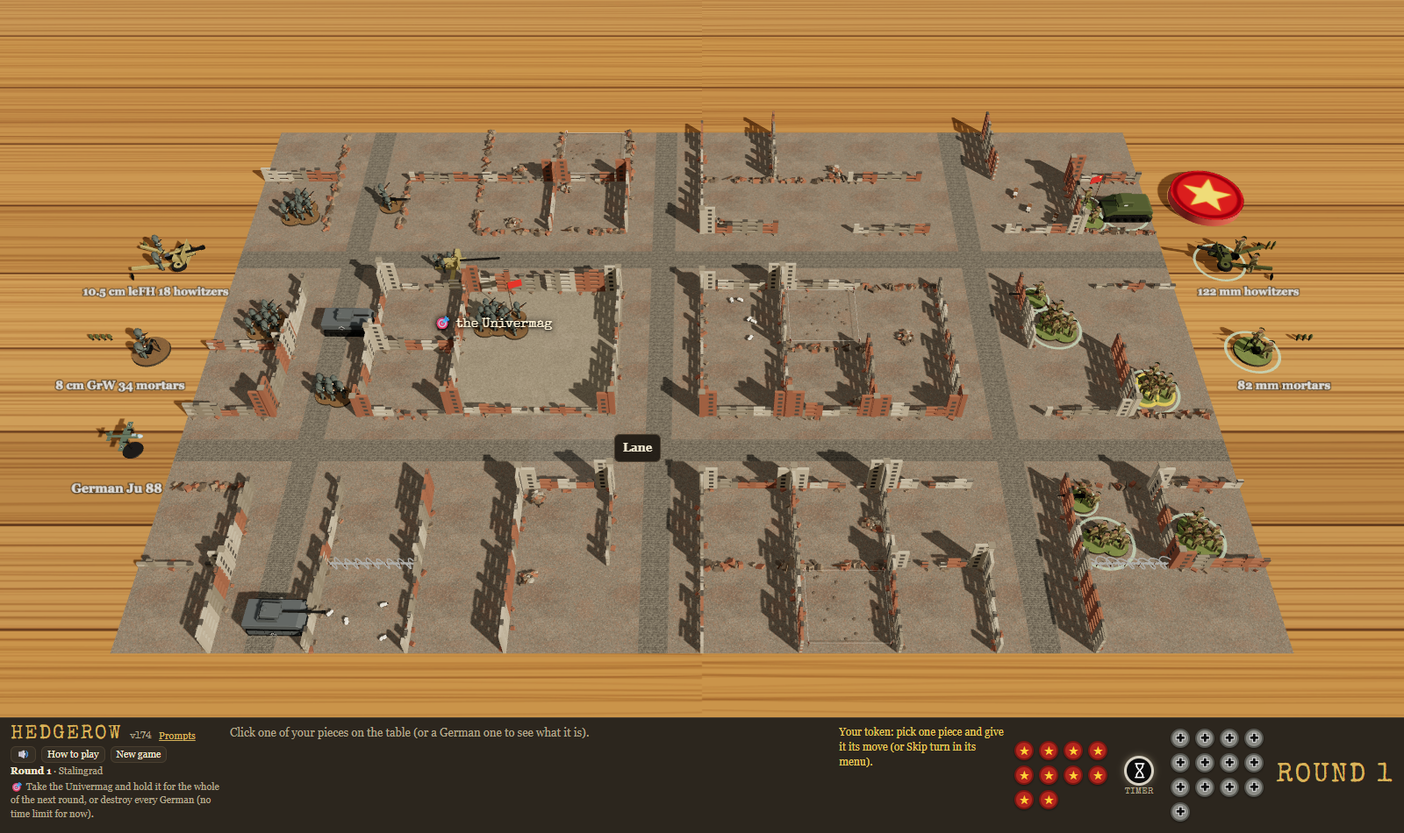
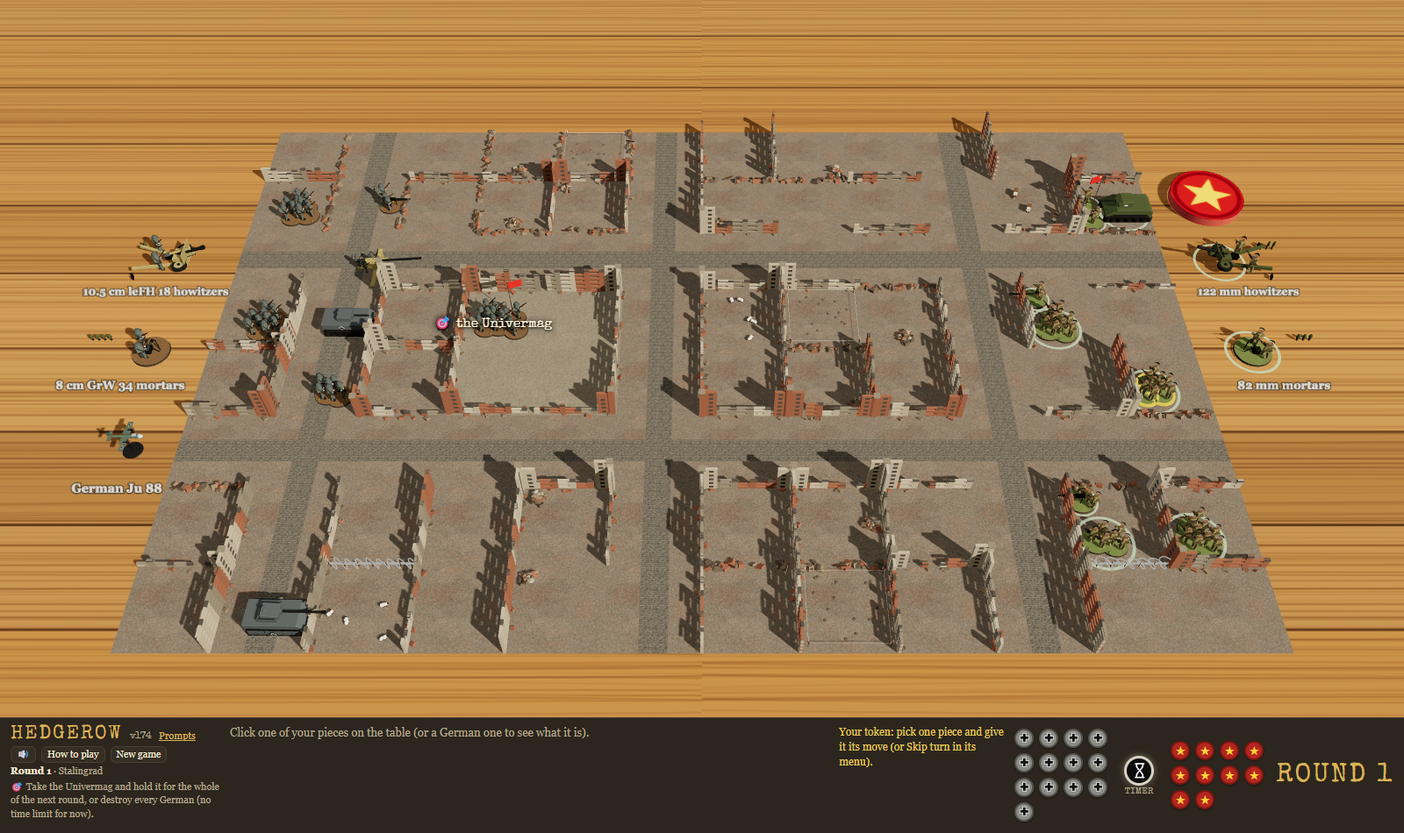
Hedgerow v175: Stalingrad tokens on their own sides, the Soviets by default, the 88 on a crossroads with no sandbags, "ruin" for "hedge"

Changed region(s): [[0.7188, 0.8547, 0.9062, 1.0], [0.25, 0.3053, 0.3438, 0.3358], [0.4375, 0.5189, 0.4688, 0.58]]

diff --git a/index.html b/index.html
@@ -32,6 +32,11 @@
   .bagside { display: grid; grid-template-columns: repeat(4, 24px); grid-auto-rows: 24px; gap: 4px; align-content: center; }
   #bag-us { justify-items: start; }
   #bag-de { justify-items: end; }
+  /* The table seen from the far side (Stalingrad, Steve): the Germans' tokens on the left, the other side's on the right */
+  #bagbox.flipped #bag-de { order: 1; justify-items: start; }
+  #bagbox.flipped #bag-timer { order: 2; }
+  #bagbox.flipped #bag-us { order: 3; justify-items: end; }
+  #bagbox.flipped #round { order: 4; }
   .tok { display: inline-flex; align-items: center; justify-content: center; width: 22px; height: 22px; border-radius: 50%; box-shadow: 0 1px 3px rgba(0,0,0,.6); }
   .tok.us { background: #3f8a36; border: 2px solid #2a5e24; color: #f2c94c; font-size: 14px; line-height: 1; }
   .tok.de { background: #8c8c86; border: 2px solid #55554f; }
@@ -147,7 +152,7 @@
 <aside id="panel">
   <div class="brand">
   <div class="top">
-    <h1>HEDGEROW <span id="ver" style="font-size:11px;color:var(--muted);letter-spacing:0">v174</span> <a id="prompts-link" href="prompts.html" target="_blank" rel="noopener" title="How the game was made, prompt by prompt">Prompts</a></h1>
+    <h1>HEDGEROW <span id="ver" style="font-size:11px;color:var(--muted);letter-spacing:0">v175</span> <a id="prompts-link" href="prompts.html" target="_blank" rel="noopener" title="How the game was made, prompt by prompt">Prompts</a></h1>
     <div class="links"><button id="sound-btn" title="Sound on or off">🔊</button><button id="help-btn">How to play</button><button id="new-btn">New game</button></div>
   </div>
   <div id="clock"></div>
@@ -195,7 +200,7 @@
     <p>Tuesday 11 July 1944, Normandy. Your American rifle company must fight through the bocage, field by field, and take a village three fields in from the German end of the board (Saint-Jean or La Haye: it changes each game), then hold it for the whole of the next round, or destroy every German on the field. Taken at the end of a round, it must stay held after every move of the next: a rifle platoon or the captain of yours in it and no Germans. Lose it at any moment and it must be taken and held all over again. The game is played in rounds; there is no limit for now. The moment one side has no pieces left, the game is over (the round isn't finished); if one mission or bomb takes the last of both sides, it is a draw. You lose at the end of a round if you have no rifle platoon and no captain left, and nothing left that can hurt the German tanks. A German garrison holds the village; more Germans march up from the east.</p>
     <ul>
       <li>🪖 <b>Pieces</b>: your company: three rifle platoons (three sections of three men each, moving together), the captain, machine-gun and bazooka teams, a sniper, and two tanks: a Sherman 75mm and a Sherman 76mm, with the longer gun, better against tanks. 1st Platoon is elite, and so is the Germans' 1. Fallschirmjäger-Zug: an elite piece has a gold band round the edge of each of its bases, its men look the part (and a ★ after its name): 1st Platoon are Rangers in brown, with the orange diamond on their helmets; the Fallschirmjäger wear the paratrooper's camouflage smock and black helmet. The other Germans are in field grey. Elite troops need one less to hit, in shooting and hand to hand. Your bases are green, the Germans' brown. The Germans: Fallschirmjäger platoons, MG 42 and Panzerschreck teams, a PaK 40 gun with its crew of three (it turns to face whatever it fires at), a Panzer IV and a Panther in panzer grey (the Panther's armour needs one more to hit, by shot or shell; every tank's armour shows in its panel and on the red label), and their captain with a red flag, who rallies their shaken pieces. Both captains can be shot and shelled like anyone else (a small target): one wound and he's gone.</li>
-      <li>🗺 <b>The campaign</b>: the same start also asks which battle. They run in order from the Normandy beaches through the bocage and the farms to Paris, each with its date; play any of them, in any order. When a battle ends and you have won it, <b>Next battle</b> starts the next one in the campaign with the same commanders on each side (after Paris, back to the beach); lost or drawn, <b>Try again</b> plays the same battle again. With two humans or two robots, it goes on when the Americans win. Take Paris and the city celebrates. Each has its own ground, and most change the pieces, the guns or where the sides start: River crossing (bridges the only way over), Crossroads town, Open farmland (few hedges, barns and a duck pond), Paris (a new maze of cobbled streets each game), Train station (tracks everywhere, with engines, carriages, goods wagons, signal boxes, signals, water towers and coal heaps in new places each game; the tracks themselves have no effect) and Deep bocage (hedges nearly everywhere). A café, a barn, or anything on the rails takes two or three areas, along one side of its field or in the middle, and blocks the view as a tank does; so do the station's signal boxes, water towers and coal heaps, one area each; a signal takes an area too, but can be seen past (with one in the middle only smaller pieces can stop there; platoons and tanks go past); a fountain or a pond can't be stood on, but can be seen over. Bombers differ too: on some maps only one side has one, on one map neither. The choice says what each one changes. Two <b>bonus battles</b> sit at the top right of the choice, outside the campaign. <b>Dunkirk</b>, 31 May 1940: you are the British (or the Germans against them). Your men don't go to the boats: they hold the sandbagged strongpoints along the front (two more to hit the men in one, one more against shells). From round 2 a lorry a round comes down the coast road from the top, with 1 or 2 sections of men, and drives itself (up to 4 fields a round, no orders or token) to a little ship lying off the beach; the men run out of the back into the boat, and the boats sail at the end of the round. Two or three boats (tugs and cabin cruisers) come in each round, off the top four fields of the beach; the destroyer lies at the bottom with the RAF's bomber above it. 12 sections away within 12 rounds wins (a lorry shot up on the way brings fewer); a German on the coast road or the beach at the end of a round loses, and so does running out of lorries or rounds. The Germans can shoot the lorries: each hit loses a section. The Royal Navy's destroyer fires for the British in place of artillery, with 4 rounds; the British have no mortars, and one run of an RAF Blenheim. The boats come in bow first, pull up alongside the beach, and leave bow first. The count of sections away is written large on the beach above the board. On the Normandy beach the American guns are the battleship USS Texas, out at sea, with 3 rounds, and no mortars. On both, the beach runs on past the top and bottom of the board. <b>Stalingrad</b>, November 1942: you are the Soviets (or the Germans against them), coming in from the right through a bombed-out city to take the ruins of the Univermag store from the Germans on the left. The walls of ruined buildings stand on the edges between fields and work as hedges do: you see over one only from right beside it, men climb through its windows, lining one is cover, and a tank drives through it, leaving rubble. Lines of rubble do the same. A pile of rubble takes one area, and men in its field have one more to hit; a minefield (boards on stakes round it) rolls a die for every piece that goes in: 5 or 6 sets off a mine, a hit on it. Each side has a section of submachine gunners (PPSh or MP 40): two bases of three men, 3 dice a base, at close range only. The Germans have an 8.8 cm Flak 36 in a fixed position in the street beside the store, looking down it, that never moves; the Soviets a T-34, a Maxim, a PTRD anti-tank rifle and a sniper. Their token is red with a yellow star.</li>
+      <li>🗺 <b>The campaign</b>: the same start also asks which battle. They run in order from the Normandy beaches through the bocage and the farms to Paris, each with its date; play any of them, in any order. When a battle ends and you have won it, <b>Next battle</b> starts the next one in the campaign with the same commanders on each side (after Paris, back to the beach); lost or drawn, <b>Try again</b> plays the same battle again. With two humans or two robots, it goes on when the Americans win. Take Paris and the city celebrates. Each has its own ground, and most change the pieces, the guns or where the sides start: River crossing (bridges the only way over), Crossroads town, Open farmland (few hedges, barns and a duck pond), Paris (a new maze of cobbled streets each game), Train station (tracks everywhere, with engines, carriages, goods wagons, signal boxes, signals, water towers and coal heaps in new places each game; the tracks themselves have no effect) and Deep bocage (hedges nearly everywhere). A café, a barn, or anything on the rails takes two or three areas, along one side of its field or in the middle, and blocks the view as a tank does; so do the station's signal boxes, water towers and coal heaps, one area each; a signal takes an area too, but can be seen past (with one in the middle only smaller pieces can stop there; platoons and tanks go past); a fountain or a pond can't be stood on, but can be seen over. Bombers differ too: on some maps only one side has one, on one map neither. The choice says what each one changes. Two <b>bonus battles</b> sit at the top right of the choice, outside the campaign. <b>Dunkirk</b>, 31 May 1940: you are the British (or the Germans against them). Your men don't go to the boats: they hold the sandbagged strongpoints along the front (two more to hit the men in one, one more against shells). From round 2 a lorry a round comes down the coast road from the top, with 1 or 2 sections of men, and drives itself (up to 4 fields a round, no orders or token) to a little ship lying off the beach; the men run out of the back into the boat, and the boats sail at the end of the round. Two or three boats (tugs and cabin cruisers) come in each round, off the top four fields of the beach; the destroyer lies at the bottom with the RAF's bomber above it. 12 sections away within 12 rounds wins (a lorry shot up on the way brings fewer); a German on the coast road or the beach at the end of a round loses, and so does running out of lorries or rounds. The Germans can shoot the lorries: each hit loses a section. The Royal Navy's destroyer fires for the British in place of artillery, with 4 rounds; the British have no mortars, and one run of an RAF Blenheim. The boats come in bow first, pull up alongside the beach, and leave bow first. The count of sections away is written large on the beach above the board. On the Normandy beach the American guns are the battleship USS Texas, out at sea, with 3 rounds, and no mortars. On both, the beach runs on past the top and bottom of the board. <b>Stalingrad</b>, November 1942: you are the Soviets (or the Germans against them), coming in from the right through a bombed-out city to take the ruins of the Univermag store from the Germans on the left. The walls of ruined buildings stand on the edges between fields and work as hedges do: you see over one only from right beside it, men climb through its windows, lining one is cover, and a tank drives through it, leaving rubble. Lines of rubble do the same. A pile of rubble takes one area, and men in its field have one more to hit; a minefield (boards on stakes round it) rolls a die for every piece that goes in: 5 or 6 sets off a mine, a hit on it. Each side has a section of submachine gunners (PPSh or MP 40): two bases of three men, 3 dice a base, at close range only. The Germans have an 8.8 cm Flak 36 in a fixed position on the crossroads behind the store, looking down the street, that never moves; the Soviets a T-34, a Maxim, a PTRD anti-tank rifle and a sniper. Their token is red with a yellow star.</li>
       <li>🏖 <b>Beach landing</b>: the Americans start in landing craft in the sea and can only go forward. There is no goal to take: they win only by destroying every German, bunkers and all. <b>Bunkers</b> are a U of concrete with an MG team or a PaK 40 inside. They never move and fire only out of the slit in their thick front, to the west, across a 90° arc: 45° either side of straight ahead, measured from where the bunker stands to where the target stands in its field. <b>From in front they need 3 more to hit</b>, and shells and bombs too; <b>from either thin side, 1 more</b>; <b>from the open back (the 90° straight behind it), nothing extra</b>. A bunker never has cover from the sea wall, hedges, houses or trees, and the label on a shot at one says which face. Rifles, machine guns and mortars only shake a bunker; anti-tank weapons, artillery and bombs can knock it out, and a rifle platoon can storm it hand to hand from the side or back, never from the front. A dead bunker stays as a burnt-out shell, blocking the view. <b>Tank traps</b> stop tanks and give no cover. <b>Burnt-out landing craft</b> on the sand block the view; a piece right beside one (in the next area, in its field or the next) has +1 cover, as by a hedge, shown by a green bar along the wreck when you move there (not against shells or bombs). The sea wall is climbed like a hedge bank, or driven through.</li>
       <li>🔄 <b>Human or robot</b>: the game starts by asking who commands each side, and <b>New game</b> asks again. Two humans share the screen and take turns token by token: a piece under fire is asked Stand fast or Take cover by the other player. Two robots play it out while you watch, a draw after 30 rounds. <b>Playing the Germans</b>: As the Germans you win only by destroying every American piece on the table; their mortars, artillery and bomber off the table don't count. You lose if a rifle platoon or the captain of theirs takes the village and holds it for the whole of the next round, with no Germans left in it, or if every German is destroyed. The computer plays the Americans and attacks. Everything else in these rules works the same, the other way round: your pieces fight with German weapons and your mortars drop on one piece, not a whole field.</li>
       <li>📋 <b>The bag</b>: each round a token goes in a blind bag for every piece on the table: green with a gold star for yours, grey with a black cross for the Germans', and one black timer token (a white sand-glass): when the timer is drawn the round ends there and then, whoever has still to move (it is never the first token out). Tokens are drawn one at a time; on yours, pick one piece and give it its move (or Skip turn in its menu); on theirs, a German piece moves. A piece destroyed, or one that loses its move, takes a token out. When the bag is empty the next round starts. The tokens left are shown in the bar at the bottom (the timer between the two sides'); the one drawn flies onto the table above that side's artillery and stays there until its move is over. Your mortars, artillery and bomber each have a token too, while they have rounds or a run left (with none left, they come out of the bag): on one of your tokens, firing them or flying the bomber uses it. Any piece or gun can <b>Skip turn</b> (in its menu): it gives up its move this round and the token is used.</li>
@@ -231,16 +236,16 @@
 </div>
 
 <script src="https://cdnjs.cloudflare.com/ajax/libs/three.js/r128/three.min.js"></script>
-<script src="js/data.js?v=174"></script>
-<script src="js/sim.js?v=174"></script>
-<script src="js/sound.js?v=174"></script>
-<script src="js/models.js?v=174"></script>
-<script src="js/fire.js?v=174"></script>
-<script src="js/chute.js?v=174"></script>
-<script src="js/labels.js?v=174"></script>
-<script src="js/scenery.js?v=174"></script>
-<script src="js/board3d.js?v=174"></script>
-<script src="js/ui.js?v=174"></script>
-<script src="js/main.js?v=174"></script>
+<script src="js/data.js?v=175"></script>
+<script src="js/sim.js?v=175"></script>
+<script src="js/sound.js?v=175"></script>
+<script src="js/models.js?v=175"></script>
+<script src="js/fire.js?v=175"></script>
+<script src="js/chute.js?v=175"></script>
+<script src="js/labels.js?v=175"></script>
+<script src="js/scenery.js?v=175"></script>
+<script src="js/board3d.js?v=175"></script>
+<script src="js/ui.js?v=175"></script>
+<script src="js/main.js?v=175"></script>
 </body>
 </html>

diff --git a/js/ui.js b/js/ui.js
@@ -489,12 +489,12 @@ const UI = (() => {
     }
     if (u.kind === 'company' || Sim.isTank(u)) {
       const fight = Sim.chargeSpots(st, u).some(p => Sim.at(st, p.x, p.y, enemy()).length);
-      add('charge', fight ? '⚔ Charge (hand to hand)' : '⚔ Charge', Sim.chargeSpots(st, u).length > 0, 'Up to three fields without shooting (men climbing a hedge or cutting wire use one more); hand to hand if the enemy holds the field it ends in');
+      add('charge', fight ? '⚔ Charge (hand to hand)' : '⚔ Charge', Sim.chargeSpots(st, u).length > 0, `Up to three fields without shooting (men climbing a ${Sim.hedgeWord()} or cutting wire use one more); hand to hand if the enemy holds the field it ends in`);
       add('moveShoot', '➡ Move & shoot', Sim.moveShootSpots(st, u).length > 0, 'Up to two fields to where it can fire (the red-hatched fields), then fire needing one more on the dice');
       add('shoot', '🎯 Shoot', Sim.targets(st, u).length > 0, 'Fire with every die');
     } else if (u.kind === 'captain') {
       // The four actions (Steve): Charge, Move & shoot, Shoot, Rally. The captain does all four
-      add('charge', '⚔ Charge', Sim.chargeSpots(st, u).length > 0, 'Up to three fields, no shooting (climbing a hedge uses one more)');
+      add('charge', '⚔ Charge', Sim.chargeSpots(st, u).length > 0, `Up to three fields, no shooting (climbing a ${Sim.hedgeWord()} uses one more)`);
       // (after two rallies only a charge is left, Steve)
       add('moveShoot', '➡ Move & shoot', Sim.mayFire(u) && Sim.moveShootSpots(st, u).length > 0, 'Up to two fields to where he can fire (the red-hatched fields), then fire needing one more on the dice');
       add('shoot', '🎯 Shoot', Sim.mayFire(u) && Sim.targets(st, u).length > 0, `His submachine gun: ${PIECES[u.kind].soft} dice, at close range only`);
@@ -506,7 +506,7 @@ const UI = (() => {
       const further = PIECES[u.kind].extraMove > 0;
       const chargeFields = further ? 'four' : 'three';
       const moveFields = further ? 'three' : 'two';
-      add('charge', '⚔ Charge', Sim.chargeSpots(st, u).length > 0, `Up to ${chargeFields} fields, no shooting (climbing a hedge uses one more)`);
+      add('charge', '⚔ Charge', Sim.chargeSpots(st, u).length > 0, `Up to ${chargeFields} fields, no shooting (climbing a ${Sim.hedgeWord()} uses one more)`);
       // Machine guns can't move and fire: they Charge to a new spot, then Shoot next round
       if (u.kind !== 'mg' && u.kind !== 'mg42') add('moveShoot', '➡ Move & shoot', Sim.moveShootSpots(st, u).length > 0, `Up to ${moveFields} fields to where it can fire (the red-hatched fields), then fire needing one more on the dice`);
       add('shoot', '🎯 Shoot', Sim.targets(st, u).length > 0, 'Fire with every die');
@@ -607,7 +607,7 @@ const UI = (() => {
     const eliteName = u.side === 'de' ? 'Fallschirmjäger' : Sim.armyOf(st) === 'us' ? 'Rangers' : 'Guards';
     const elite = u.quality === 'elite' ? ` · <b class="elite">Elite</b> (${eliteName}: −1 to hit)` : '';
     const nation = u.side === st.human && st.mode !== 'none' ? '' : `${adjective(u.side)} · `;
-    box.append(el('div', 'sub', `${nation}${kindName(u)}${elite}${Sim.hasCutters(u) ? ' · hedge cutters' : ''}`));
+    box.append(el('div', 'sub', `${nation}${kindName(u)}${elite}${Sim.hasCutters(u) && Sim.hedgeWord() === 'hedge' ? ' · hedge cutters' : ''}`));
     const where = `📍 At ${Sim.placeName(u.at)}`;
     box.append(el('div', 'stats', [strength, dice, armour, where, status].filter(Boolean).map(s => `<span>${s}</span>`).join('')));
     // Aboard a boat, or a lorry driving itself: no orders to give
@@ -640,9 +640,9 @@ const UI = (() => {
       : view.mode === 'halfShot' ? `Moved. Click a red target to fire on it (${selected() && !Sim.shotOnTheMove(selected()) ? 'moved within its field: nothing more needed' : 'one more needed on the move'}), or Esc to hold fire.`
       : view.mode === 'shoot' ? 'Click a red target to fire on it. Esc cancels.'
       : view.mode === 'rally' ? `Bright green: pieces he can rally; click one. Pale green: how far he reaches (${RALLY_RANGE} fields). Esc cancels.`
-      : view.mode === 'go' ? `${targets().length ? 'Red targets: shoot from here. ' : ''}Red hatching: Move & shoot (crossed: close range; pale: only a Hail Mary from there). Other marked fields: Charge. ${st.human === 'us' ? 'Blue: the village. ' : ''}Click where in the field to stand: a corner, an edge (lining its hedge) or the middle. Or use the menu.`
-      : view.mode === 'charge' ? `${st.human === 'us' ? 'Blue hatching: the village to take. ' : ''}Click where in a field to go: by a hedge to line it (green: cover), or the middle for the open. Bright red fields are held by the ${foes()}: a hand-to-hand fight. Its own field (green): line another hedge. Esc cancels.`
-      : view.mode === 'moveShoot' ? `Click where in a red-hatched field to go (by a hedge to line it, green: cover; crossed red: close range): ${u ? u.name : 'the piece'} moves there and can fire. Esc cancels.`
+      : view.mode === 'go' ? `${targets().length ? 'Red targets: shoot from here. ' : ''}Red hatching: Move & shoot (crossed: close range; pale: only a Hail Mary from there). Other marked fields: Charge. ${st.human === 'us' ? 'Blue: the village. ' : ''}Click where in the field to stand: a corner, an edge (lining its ${Sim.hedgeWord()}) or the middle. Or use the menu.`
+      : view.mode === 'charge' ? `${st.human === 'us' ? 'Blue hatching: the village to take. ' : ''}Click where in a field to go: by a ${Sim.hedgeWord()} to line it (green: cover), or the middle for the open. Bright red fields are held by the ${foes()}: a hand-to-hand fight. Its own field (green): line another ${Sim.hedgeWord()}. Esc cancels.`
+      : view.mode === 'moveShoot' ? `Click where in a red-hatched field to go (by a ${Sim.hedgeWord()} to line it, green: cover; crossed red: close range): ${u ? u.name : 'the piece'} moves there and can fire. Esc cancels.`
       : `Click a highlighted field for ${u ? u.name : 'the piece'}. Esc cancels.`;
     $('#hint').textContent = text;
   }
@@ -696,6 +696,8 @@ const UI = (() => {
     const left = st.leftInBag ? Object.assign({ timer: 0 }, st.leftInBag) : null;
     const b = view.bagShown || left || st.bag || { us: 0, de: 0 };
     $('#bag-us').innerHTML = TOKEN[Sim.armyOf(st)].repeat(b.us);
+    // (each side's tokens on its own side of the screen, Steve: the Germans on the left at Stalingrad)
+    $('#bagbox').classList.toggle('flipped', !!st.map.flip);
     $('#bag-de').innerHTML = TOKEN.de.repeat(b.de);
     // The timer token, between the two sides' tokens (Steve)
     $('#bag-timer').innerHTML = b.timer ? TOKEN.timer + '<span class="timer-label">TIMER</span>' : '';

diff --git a/js/sim.js b/js/sim.js
@@ -162,6 +162,9 @@ const Sim = (() => {
     return true;
   }
 
+  // What a hedge is called on this map (Steve: at Stalingrad the hedges are ruins)
+  function hedgeWord() { return currentMap.ruins ? 'ruin' : 'hedge'; }
+
   function hedge(st, ax, ay, bx, by) { return !!st.hedges[edgeKey(ax, ay, bx, by)]; }
   function wire(st, ax, ay, bx, by) { return !!st.wire[edgeKey(ax, ay, bx, by)]; }
 
@@ -1384,7 +1387,7 @@ const Sim = (() => {
     // The covers one by one: the hedge it lines, a tank in a field in between, the field it stands in, its own tank beside it
     // (none for a bunker, Steve: see cover)
     const covered = !isBunker(target);
-    if (covered && s && s.hedge) why.push(`+${COVER.hedge} hedge`);
+    if (covered && s && s.hedge) why.push(`+${COVER.hedge} ${hedgeWord()}`);
     if (covered && s && s.tankCorner) why.push(`+${COVER.tankCorner} tank's corner`);
     if (covered && s && s.placeCorner) why.push(`+${COVER.placeCorner} cover`);
     if (covered) why.push(...placeWhy(st, target, shooter));
@@ -1736,8 +1739,8 @@ const Sim = (() => {
     if (!defenders.length) {
       const how = step(st, u, x, y, true);
       const mined = takeMineLines(st);
-      if (mined.length) return [how === 'cut' ? `${u.name} charges through the hedge, leaving a gap` : `${u.name} charges forward`, ...mined.map(l => l.replace(/\.$/, ''))];
-      return [how === 'cut' ? `${u.name} charges through the hedge, leaving a gap` : how === 'flattened' ? `${u.name} charges over the wire, flattening it` : `${u.name} charges forward`];
+      if (mined.length) return [how === 'cut' ? `${u.name} charges through the ${hedgeWord()}, leaving a gap` : `${u.name} charges forward`, ...mined.map(l => l.replace(/\.$/, ''))];
+      return [how === 'cut' ? `${u.name} charges through the ${hedgeWord()}, leaving a gap` : how === 'flattened' ? `${u.name} charges over the wire, flattening it` : `${u.name} charges forward`];
     }
     st.fx.push({ x, y, kind: 'assault' });
     // A tank can't fight hand to hand (Steve): it drives in and the men there fall back
@@ -2021,8 +2024,8 @@ const Sim = (() => {
   }
 
   function moveLine(u, how) {
-    if (how === 'cut') return `🚜 ${u.name} smashes through the hedge, leaving a gap.`;
-    if (how === 'climbed') return `🧗 ${u.name} struggles over the hedge bank.`;
+    if (how === 'cut') return `🚜 ${u.name} smashes through the ${hedgeWord()}, leaving a gap.`;
+    if (how === 'climbed') return currentMap.ruins ? `🧗 ${u.name} climbs through the ruin.` : `🧗 ${u.name} struggles over the hedge bank.`;
     if (how === 'flattened') return `🚜 ${u.name} flattens the barbed wire.`;
     if (how === 'snagged') return `🚜 ${u.name} flattens the barbed wire but gets snagged in it and stops.`;
     if (how === 'wirecut') return `✂ ${u.name} cuts through the wire.`;
@@ -2895,10 +2898,10 @@ const Sim = (() => {
   function computerMovesToFire(st, u) {
     const across = st.units.find(o => o.side !== u.side && o.x !== null && acrossHedge(st, u, o) && !atHedge(u, o));
     if (across && !PIECES[u.kind].fixed) {
-      computerSays(st, `Lines the hedge facing ${across.name}`);
+      computerSays(st, `Lines the ${hedgeWord()} facing ${across.name}`);
       u.at = freePlace(st, u, u.x, u.y, dirTo(u, across));
       springAmbushes(st, u, []);
-      return { shot: shotAfterMove(st, u, `Lines the hedge facing ${across.name}`) };
+      return { shot: shotAfterMove(st, u, `Lines the ${hedgeWord()} facing ${across.name}`) };
     }
     const plan = bestMoveShoot(st, u);
     if (!plan) return null;
@@ -3486,7 +3489,7 @@ const Sim = (() => {
 
   return {
     firesOnTheMove, canAmbush, actAmbush, bestMoveShoot, bomberHeading, bomberAims, bomberLine, bombNeed, bombWhy, bestBomberRun,
-    isBunker, isCar, hurtsCars, trainCars, lineSideOf, moveTrains, inFrontOf, bunkerFace, shotOnTheMove, wrecksBeside, isRoad, featuresAt, walkDistance, fireSound, wreckAt, remove, computerSide, isRobot, piecesToAsk, takeCover, enemyOf, gunStats, bomberName, boatKind, armyOf, closeRangeOnly, isAtGun, isEmplaced, edgeKey, atCloseRange, closeCells, hailMaryCells,
+    isBunker, isCar, hurtsCars, trainCars, lineSideOf, moveTrains, inFrontOf, bunkerFace, shotOnTheMove, wrecksBeside, isRoad, featuresAt, walkDistance, fireSound, wreckAt, remove, computerSide, isRobot, piecesToAsk, takeCover, enemyOf, gunStats, bomberName, boatKind, armyOf, hedgeWord, closeRangeOnly, isAtGun, isEmplaced, edgeKey, atCloseRange, closeCells, hailMaryCells,
     newGame, roll, inside, tileType, hedge, at, unitById, isTank, isTeam, adjacent, sees, targets, chargeSpots,
     rallyTargets, canAct, canReact, firepower, canCallFire, takesGoal, cannotWin, artilleryTarget, mortarTarget, holdsObjective, roundText, roomFor,
     computerStep, answer, finishRound, startRound, drawToken, endComputerToken, activationOver, passToken, humanCanMove, endRound, canFire, actSkip, actSkipShot, skipSupport,

diff --git a/js/data.js b/js/data.js
@@ -307,11 +307,13 @@ const MAPS = [
     // Piles of rubble and minefields made new each game (generated: 'ruins'). The 'us' side is the Soviets (army 'su');
     // the table is seen from the other side (flip), so they come in from the right and the Germans hold the left (Steve)
     id: 'stalingrad', bonus: true, date: 'November 1942', name: 'Stalingrad',
-    note: 'A bombed-out city. The Soviets attack the Germans holding the ruins of the Univermag store. The walls of ruined buildings stand between the fields and work as hedges do: you see over one only from right beside it, men climb through the windows, and lining one is cover. Lines of rubble do the same; piles of rubble give cover, and minefields may blow up whoever goes in. Each side has a section of submachine gunners: two bases of three men, 3 dice a base (6 in all), at close range only. The Germans have an 8.8 cm Flak in a fixed position, looking down an open street; the Soviets a T-34.',
+    note: 'A bombed-out city. The Soviets attack the Germans holding the ruins of the Univermag store. The walls of ruined buildings stand between the fields and work as hedges do: you see over one only from right beside it, men climb through the windows, and lining one is cover. Lines of rubble do the same; piles of rubble give cover, and minefields may blow up whoever goes in. Each side has a section of submachine gunners: two bases of three men, 3 dice a base (6 in all), at close range only. The Germans have an 8.8 cm Flak in a fixed position on a crossroads, looking down an open street; the Soviets a T-34.',
     generated: 'ruins',
     ruins: true,
     army: 'su',
     flip: true,
+    // (Steve: the player is the Soviets when this battle is picked)
+    player: 'us',
     names: { us: 'Soviets', de: 'Germans' },
     rows: [
       '..|...|...|.',
@@ -348,9 +350,9 @@ const MAPS = [
         { id: 'd1', kind: 'company', name: '1. Zug', quality: 'standard', post: [0, 0], garrison: true },
         { id: 'dmg1', kind: 'mg42', name: 'MG 34 Team', post: [0, 0], garrison: true },
         { id: 'dcap', kind: 'captain', name: 'Hauptmann (company HQ)', post: [0, 0], garrison: true },
-        // The 88 (Steve: a fixed position, pointing down an open street): in the street beside the store, looking west
-        // along it, where no wall stands in the way; it never moves
-        { id: 'd88', kind: 'flak88', name: '8.8 cm Flak 36', post: [1, 1], garrison: true, aim: Math.PI },
+        // The 88 (Steve: a fixed position, pointing down an open street, on a crossroads): on the crossroads behind the
+        // store, looking west down the street, where no wall stands in the way; it never moves
+        { id: 'd88', kind: 'flak88', name: '8.8 cm Flak 36', post: [2, 1], garrison: true, aim: Math.PI },
         { id: 'd2', kind: 'company', name: '2. Zug', quality: 'standard', post: [0, 1] },
         { id: 'dsmg', kind: 'company', arms: 'smg', name: 'MP 40 Section', quality: 'standard', post: [0, -1] },
         { id: 'dmg2', kind: 'mg42', name: 'MG 34 Team', post: [-1, -1] },

diff --git a/tools/test.js b/tools/test.js
@@ -4372,6 +4372,10 @@ check('Dunkirk boats are named by their type, a tug or a cabin cruiser, as the t
 check('Stalingrad: the Soviets against the Germans, the table seen from the far side, walls between the fields, rubble and minefields', () => {
   const st = Sim.newGame(3, 'us', 'stalingrad');
   assert(Sim.armyOf(st) === 'su' && Sim.sideName(st, 'us') === 'Soviets' && st.map.flip, 'not the Soviets, or not flipped');
+  // (Steve: the cover is a ruin there, not a hedge)
+  assert(Sim.hedgeWord() === 'ruin', `the walls are called ${Sim.hedgeWord()}`);
+  // (Steve: the player is the Soviets when it is picked)
+  assert(st.map.player === 'us', 'the player is not the Soviets');
   // The walls stand on the edges as hedges do
   assert(Object.keys(st.hedges).length > 40, `only ${Object.keys(st.hedges).length} walls`);
   // Rubble and minefields, never in the store or on a street, nor where the sides start
@@ -4389,6 +4393,7 @@ check('Stalingrad: the Soviets against the Germans, the table seen from the far 
   assert(kinds('us').includes('t34') && kinds('us').includes('company:smg'), kinds('us').join());
   assert(kinds('de').includes('flak88') && kinds('de').includes('company:smg'), kinds('de').join());
   Sim.newGame(1);
+  assert(Sim.hedgeWord() === 'hedge', 'hedges are still called ruins elsewhere');
 });
 
 check('Stalingrad: a section of submachine gunners is two bases of three men, 3 dice a base, at close range only (Steve)', () => {
@@ -4414,8 +4419,8 @@ check('Stalingrad: the 88 is dug in for good: it never moves, not even within it
   assert(gun.x !== null && Sim.isEmplaced(gun) && Sim.isAtGun(gun), 'no 88 dug in');
   assert(!Sim.chargeSpots(st, gun).length && !Sim.moveShootSpots(st, gun).length, 'the 88 could move');
   assert(PIECES.flak88.hard > PIECES.pak.hard, 'the 88 is no stronger than the PaK');
-  // (Steve: pointing down an open street) In an east-west street, facing west along it towards the Soviets
-  assert(Sim.tileType(gun.x, gun.y) === 'laneEW' && Math.abs(gun.aim - Math.PI) < 1e-6, `the 88 in ${Sim.tileType(gun.x, gun.y)}, facing ${gun.aim}`);
+  // (Steve: pointing down an open street, on a crossroads) On a crossroads, facing west along the street to the Soviets
+  assert(Sim.tileType(gun.x, gun.y) === 'crossroads' && Math.abs(gun.aim - Math.PI) < 1e-6, `the 88 in ${Sim.tileType(gun.x, gun.y)}, facing ${gun.aim}`);
   // Nothing in the way along the street: no wall between it and the far end of the board
   for (let x = gun.x; x > 0; x--) assert(!Sim.hedge(st, x, gun.y, x - 1, gun.y), `a wall across the street at ${x}`);
   Sim.newGame(1);

diff --git a/js/main.js b/js/main.js
@@ -629,6 +629,15 @@ window.Game = (() => {
     // Who the 'us' side is in this battle (Steve: the British at Dunkirk)
     $('#us-side-name').textContent = (map.names && map.names.us) || 'Americans';
   }
+  // A battle that says which side the player is (Steve: the Soviets at Stalingrad): picked, the sides are set to that
+  // (one human, the other side the robot); they can still be changed before Start
+  function playerFor(id) {
+    const map = MAPS.find(m => m.id === id);
+    if (!map || !map.player) return;
+    picked.us = map.player === 'us' ? 'human' : 'robot';
+    picked.de = map.player === 'de' ? 'human' : 'robot';
+    lightSides();
+  }
   // One card, for the campaign or the bonus battles. stamp: a word across the picture of one that can't be played yet
   function mapCard(id, title, date, picture, into = '#map-choice', stamp = '') {
     const b = document.createElement('button');
@@ -640,7 +649,7 @@ window.Game = (() => {
     b.innerHTML = `<span class="map-pic"><img src="${picture}" alt="">${stampHtml}</span><b>${title}</b><span class="map-date">${date}</span>`;
     // Not ready: it can't be picked
     if (stamp) b.disabled = true;
-    else b.onclick = () => { chosenMap = id; lightMap(); };
+    else b.onclick = () => { chosenMap = id; playerFor(id); lightMap(); };
     $(into).append(b);
     return b;
   }

diff --git a/js/board3d.js b/js/board3d.js
@@ -2095,7 +2095,7 @@ const Board = (() => {
     const ring = new T.Mesh(new T.RingGeometry(0.1, 0.14, 32), new T.MeshBasicMaterial({ color: 0xfff6dc, transparent: true, opacity: 0.9, depthWrite: false, depthTest: false }));
     at(ring, h.x + 0.5 + p.x * 0.3, 0.02, h.y + 0.5 + p.y * 0.3, -Math.PI / 2, 0, 0); marks.add(ring);
     if (inCover) mark(h.x, h.y, 'cover', 0.08);
-    const text = byHedge ? 'Cover: hedge' : inCover ? `Cover: ${type === 'orchard' ? 'trees' : 'houses'}` : byWreck ? 'Cover: wreck' : 'In the open';
+    const text = byHedge ? `Cover: ${Sim.hedgeWord()}` : inCover ? `Cover: ${type === 'orchard' ? 'trees' : 'houses'}` : byWreck ? 'Cover: wreck' : 'In the open';
     const w = word(text, byHedge || inCover || byWreck ? '#9dff7a' : '#f0e8d6', false);
     w.position.set(h.x + 0.5 + p.x * 0.2, 0.32, h.y + 0.5 + p.y * 0.2);
     marks.add(w);

diff --git a/PROMPTS.md b/PROMPTS.md
@@ -1779,6 +1779,14 @@ How the game was made: each prompt, what was built, and the assumptions made.
 - **Fixes**: the newest roll's dice are moved down until their top is on the screen (a tall artillery column went off the top); Dunkirk's score is moved down the beach until its top line shows, and placed again when the window changes shape
 - Robots (20 games): Soviets 9, Germans 9, draws 2, about 16 rounds. Assumed: the objective is the Univermag (where Paulus surrendered, January 1943); the Soviet bomber is left out until it has its own plane
 
+## 306. Stalingrad: the tokens' sides, the Soviets by default, the 88 on a crossroads, "ruin" for "hedge" (v175)
+
+- Steve: swap the grey and red tokens' sides in the pile at the bottom of the screen; the player defaults to the Russians; put the 88 on a crossroads; for Stalingrad change "cover: hedge" to "cover: ruin". (Passed on from another session: the 88 needs to point down an open street)
+- **Tokens**: with the table seen from the far side, the German tokens sit on the left of the bar and the Soviet ones on the right, as on the table
+- **The player**: picking Stalingrad on New game sets the sides to you as the Soviets against the German robot (they can still be changed before Start)
+- **The 88**: on the crossroads behind the store, looking west down the open street at the Soviets, nothing in the way; no sandbags round it, and no "dug in" in its name
+- **Words**: at Stalingrad the hedge is a ruin everywhere it is named: "+1 ruin", "Cover: ruin", "climbs through the ruin", "smashes through the ruin", "lining its ruin", and no "hedge cutters"
+
 ## Sessions
 
 | # | Date | Length | What we did |
